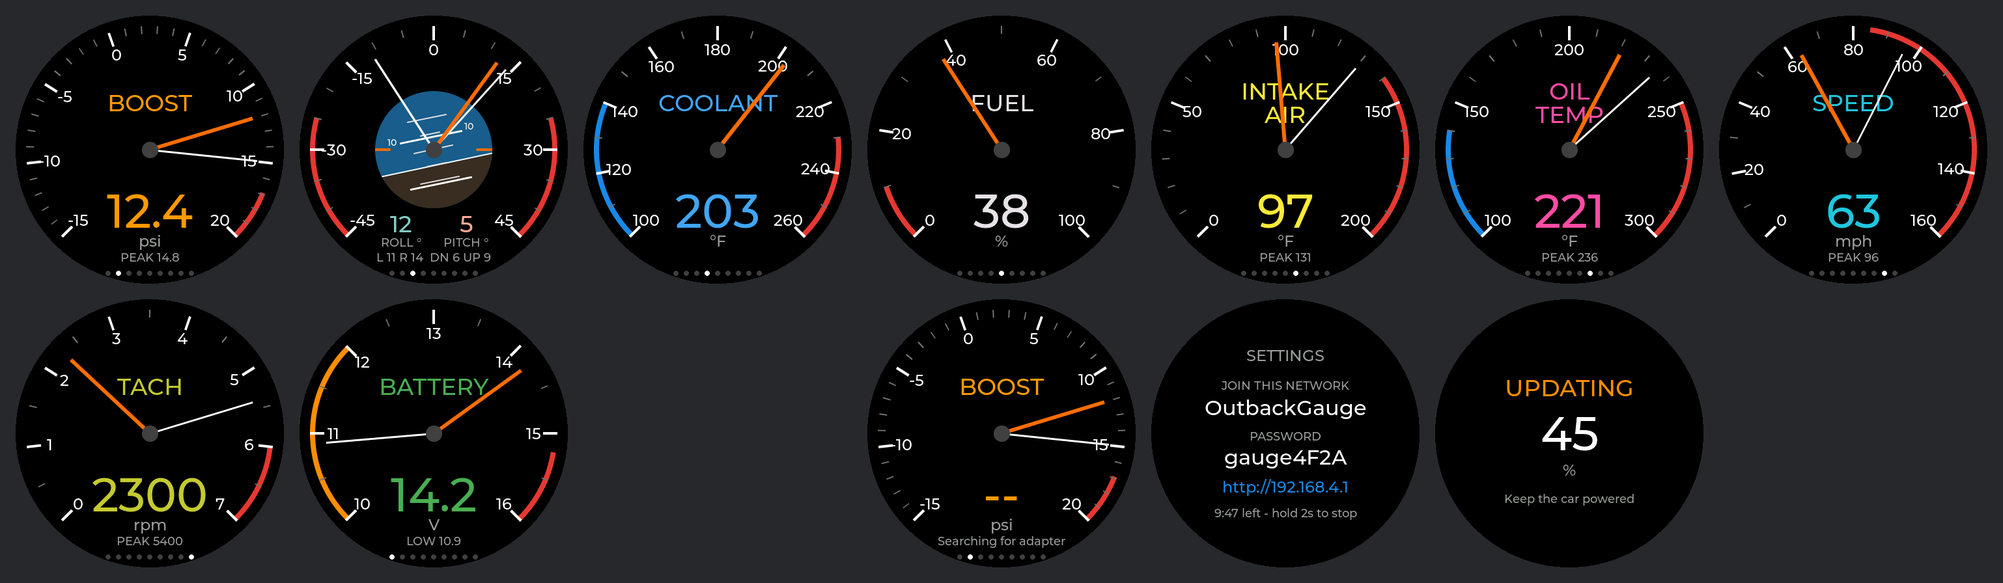
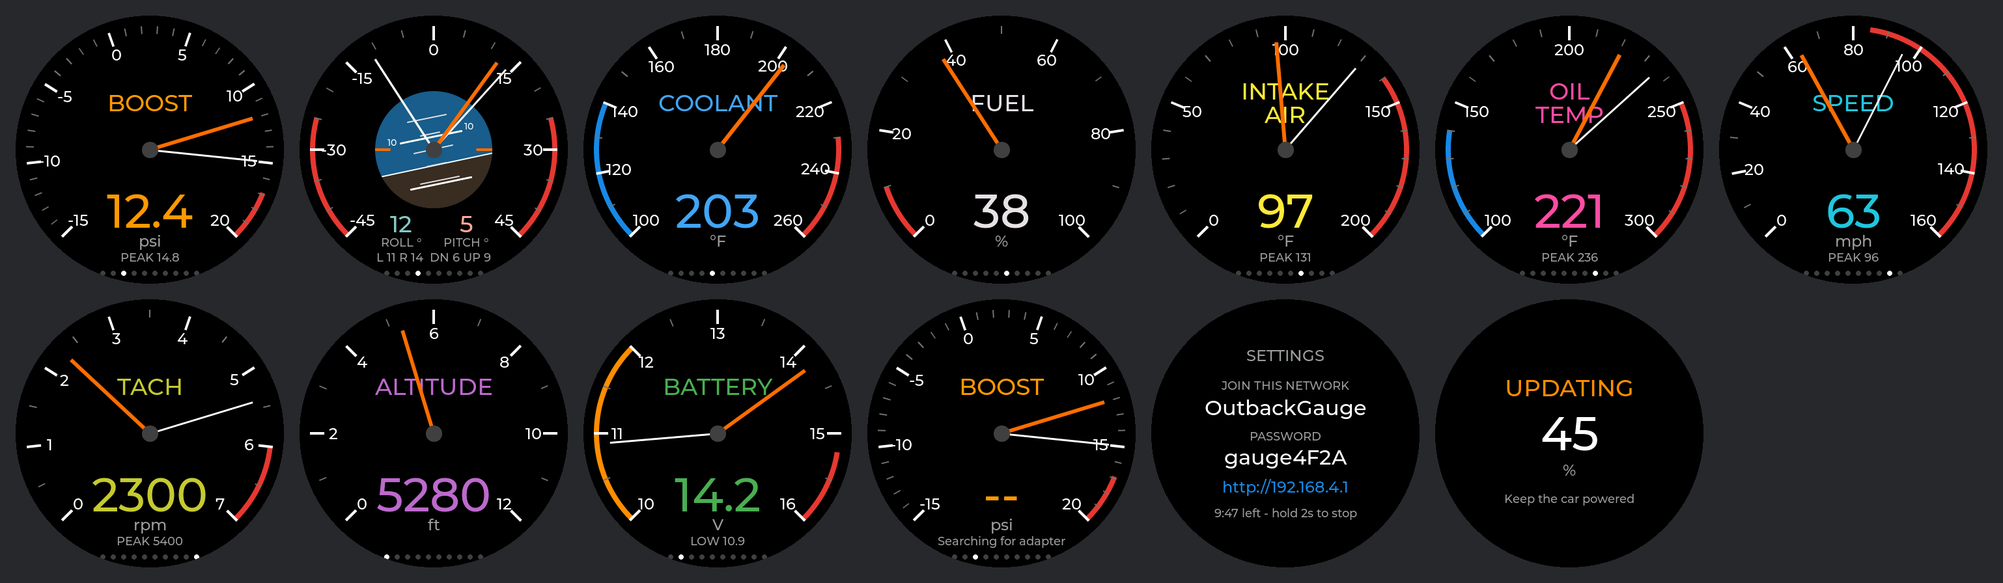
Add an altitude gauge from the barometric pressure

diff --git a/docs/settings-page.html b/docs/settings-page.html
@@ -1,1 +1,1 @@
-<!doctype html><html><head><meta charset=utf-8><meta name=viewport content='width=device-width,initial-scale=1'><title>Outback Gauge</title><style>*{box-sizing:border-box}body{margin:0;padding:18px;background:#111;color:#eee;font:16px/1.4 -apple-system,system-ui,Roboto,sans-serif}main{max-width:30rem;margin:0 auto}h1{font-size:1.25rem;margin:0}p.sub{margin:.2rem 0 1.4rem;color:#888;font-size:.85rem}h2{font-size:.72rem;text-transform:uppercase;letter-spacing:.09em;color:#888;margin:1.6rem 0 .3rem;border-bottom:1px solid #2a2a2a;padding-bottom:.4rem}label{display:flex;align-items:center;gap:.75rem;padding:.5rem 0}label span{flex:1}label em{color:#777;font-style:normal;font-size:.8rem;min-width:2.4rem}input[type=number]{width:5.5rem;padding:.5rem;background:#1c1c1c;border:1px solid #333;border-radius:6px;color:#fff;font-size:1rem;text-align:right}select{padding:.5rem;background:#1c1c1c;border:1px solid #333;border-radius:6px;color:#fff;font-size:1rem}input[type=file]{width:100%;margin-top:.8rem;color:#ccc}input[type=range]{flex:1;accent-color:#FF6D00}table{width:100%;border-collapse:collapse;margin-top:.3rem}th{font-size:.7rem;font-weight:400;text-transform:uppercase;letter-spacing:.06em;color:#888;text-align:center;padding:.3rem .25rem}th:first-child,td:first-child{text-align:left}td{padding:.45rem .25rem;border-top:1px solid #222;text-align:center;vertical-align:middle}td input[type=number]{width:4.6rem;padding:.4rem}td input[type=radio]{width:1.35rem;height:1.35rem;accent-color:#FF6D00}.lim{display:flex;align-items:center;justify-content:center;gap:.3rem;margin:.15rem 0}.lim em{min-width:1.6rem;text-align:left;white-space:nowrap}td input[type=number]{width:4.2rem}.none{color:#555}td.mv{user-select:none;-webkit-user-select:none}.ar{color:#777;font-size:1.1rem;display:inline-block;padding:.7rem .5rem .7rem .3rem;margin:-.7rem .1rem -.7rem -.3rem;touch-action:none;cursor:grab;vertical-align:middle}tr.drag td{background:#2a2a2a}body{padding:12px 28px 12px 12px}th,td{padding-left:.12rem;padding-right:.12rem}th{font-size:.62rem;letter-spacing:.03em}td input[type=number]{width:4rem;padding:.35rem .3rem;-moz-appearance:textfield;appearance:textfield}td input[type=number]::-webkit-inner-spin-button,td input[type=number]::-webkit-outer-spin-button{-webkit-appearance:none;margin:0}td input[type=radio],td input[type=checkbox]{width:1.2rem;height:1.2rem}.nm{display:inline-block;vertical-align:middle;max-width:calc(100% - 1.7rem);font-size:.9rem}.lim{gap:.2rem}.lim em{min-width:1.6rem;font-size:.78rem}td input:disabled{opacity:.25}button.ghost.arm{background:#7a2c2c;color:#fff;border-color:#a33}#toast{position:fixed;left:50%;bottom:1.2rem;transform:translateX(-50%);padding:.7rem 1.3rem;border-radius:8px;background:#14301b;border:1px solid #2c5c38;color:#a9e0bb;display:none;z-index:9;box-shadow:0 4px 18px #000a}#toast.bad{background:#3a1616;border-color:#7a2c2c;color:#f2b2b2}input[type=checkbox]{width:1.35rem;height:1.35rem;accent-color:#FF6D00}button{width:100%;padding:.85rem;margin-top:1.2rem;border:0;border-radius:8px;background:#FF6D00;color:#111;font-size:1rem;font-weight:600}button.ghost{background:#1c1c1c;color:#ccc;border:1px solid #333;font-weight:400;margin-top:.5rem}.note{background:#14301b;border:1px solid #2c5c38;color:#a9e0bb;padding:.6rem .8rem;border-radius:6px;margin-bottom:1.2rem;font-size:.9rem}.warn{color:#FB8C00;font-size:.78rem;margin:.5rem 0 0}</style></head><body><main><h1>Outback Gauge</h1><p class=sub>Settings are saved on the gauge and survive a reboot.</p><div class=note>Saved.</div><form method=POST action=/save data-toast="Saved"><h2>Gauges</h2><table><tr><th>Gauge (drag the grip to reorder)<th>Warns at<th>Alert<th>Show<th>Start on</tr><tr><td colspan=4>The last one I tapped to<td><input type=radio name=start value=255 checked></tr><tr data-g><td class=mv><input type=hidden name=o value=4><span class=ar>&#10303;</span><span class=nm>Battery</span><td><span class=lim><input type=number name=vlo min=10 max=14 step=0.1 value=12.0><em>V lo</em></span><span class=lim><input type=number name=vhi min=13 max=16 step=0.1 value=15.2><em>V hi</em></span><td><input type=checkbox name=al4 checked><td><input type=checkbox name=pg4 checked><td><input type=radio name=start value=4></tr><tr data-g><td class=mv><input type=hidden name=o value=0><span class=ar>&#10303;</span><span class=nm>Boost</span><td><span class=lim><input type=number name=boost min=0 max=20 step=0.5 value=17.0><em>psi</em></span><td><input type=checkbox name=al0 checked><td><input type=checkbox name=pg0 checked><td><input type=radio name=start value=0></tr><tr data-g><td class=mv><input type=hidden name=o value=8><span class=ar>&#10303;</span><span class=nm>Clinometer</span><td><span class=lim><input type=number name=roll min=5 max=45 step=1 value=25><em>&deg; roll</em></span><span class=lim><input type=number name=pitch min=5 max=45 step=1 value=25><em>&deg; pitch</em></span><td><input type=checkbox name=al8 checked><td><input type=checkbox name=pg8 checked><td><input type=radio name=start value=8></tr><tr data-g><td class=mv><input type=hidden name=o value=1><span class=ar>&#10303;</span><span class=nm>Coolant</span><td><span class=lim><input type=number name=cool min=150 max=260 step=1 value=230><em>&deg;F</em></span><td><input type=checkbox name=al1 checked><td><input type=checkbox name=pg1 checked><td><input type=radio name=start value=1></tr><tr data-g><td class=mv><input type=hidden name=o value=7><span class=ar>&#10303;</span><span class=nm>Fuel</span><td><span class=lim><input type=number name=fuel min=5 max=50 step=1 value=10><em>% low</em></span><td><input type=checkbox name=al7 checked><td><input type=checkbox name=pg7 checked><td><input type=radio name=start value=7></tr><tr data-g><td class=mv><input type=hidden name=o value=3><span class=ar>&#10303;</span><span class=nm>Intake air</span><td><span class=lim><input type=number name=intake min=60 max=200 step=1 value=140><em>&deg;F</em></span><td><input type=checkbox name=al3 checked><td><input type=checkbox name=pg3 checked><td><input type=radio name=start value=3></tr><tr data-g><td class=mv><input type=hidden name=o value=2><span class=ar>&#10303;</span><span class=nm>Oil temperature</span><td><span class=lim><input type=number name=oil min=180 max=300 step=1 value=250><em>&deg;F</em></span><td><input type=checkbox name=al2 checked><td><input type=checkbox name=pg2 checked><td><input type=radio name=start value=2></tr><tr data-g><td class=mv><input type=hidden name=o value=5><span class=ar>&#10303;</span><span class=nm>Speed</span><td><span class=lim><input type=number name=speed min=20 max=160 step=1 value=85><em>mph</em></span><td><input type=checkbox name=al5 checked><td><input type=checkbox name=pg5 checked><td><input type=radio name=start value=5></tr><tr data-g><td class=mv><input type=hidden name=o value=6><span class=ar>&#10303;</span><span class=nm>Tachometer</span><td><span class=lim><input type=number name=rpm min=3000 max=7000 step=100 value=6000><em>rpm</em></span><td><input type=checkbox name=al6 checked><td><input type=checkbox name=pg6 checked><td><input type=radio name=start value=6></tr></table><p class=warn>The start gauge falls back to the first one shown if you hide it. With Alert off a gauge still turns red, but never pulls the screen over.</p><label class=chk><input type=checkbox name=warnhidden><span>Show a hidden gauge when it warns</span></label><label class=chk><input type=checkbox name=stay checked><span>Stay on a gauge that has warned (otherwise keep rotating)</span></label><h2>Rotation</h2><label class=chk><input type=checkbox name=auto checked><span>Cycle through the gauges</span></label><label><span>Seconds per gauge</span><input type=number name=secs min=1 max=60 step=0.5 value=3.0><em>s</em></label><p class=warn>Tap the screen to move on early. Hold for 2 seconds to open this page.</p><h2>Display</h2><label><span>Backlight</span><input type=range name=bl min=5 max=100 step=5 value=80 oninput="this.nextElementSibling.textContent=this.value+'%'"><em>80%</em></label><label class=chk><input type=checkbox name=light><span>White background, black numbers and needles (hold the screen to flip it)</span></label><button>Save</button></form><form method=POST action=/level data-toast="Level set" data-ask="Tap again to set level" data-confirm="Is the car parked on level ground? That becomes zero for the clinometer."><button class=ghost>Set clinometer level</button></form><form method=POST action=/defaults data-toast="Defaults restored" data-ask="Tap again to restore defaults" data-confirm="Put every setting back to its default?"><button class=ghost>Restore defaults</button></form><form method=POST action=/reboot data-ask="Tap again to reboot" data-confirm="Reboot the gauge? The Wi-Fi drops, so hold the screen for 2 seconds to bring it back."><button class=ghost>Reboot the gauge</button></form><form method=POST action=/stop data-ask="Tap again to turn Wi-Fi off" data-confirm="Turn Wi-Fi off? Hold the screen to bring it back."><button class=ghost>Turn Wi-Fi off</button></form><h2>Firmware</h2><form method=POST action=/update enctype=multipart/form-data data-upload=1 data-ask="Tap again to install" data-confirm="Install this firmware? The gauge restarts when it finishes, which takes about a minute. Keep the car powered."><input type=file name=fw accept=".bin" required><button class=ghost>Update firmware</button></form><progress id=upbar max=100 value=0 style='display:none;width:100%;margin-top:.6rem'></progress><p class=warn id=upmsg></p><p class=warn>Build: preview. Last start: power on, 7 min ago.</p></main><div id=toast></div><script>function sync(){var rows=document.querySelectorAll('tr[data-g]'),on=0,pick=null;rows.forEach(function(r){var c=r.querySelector('input[name^=pg]'),d=r.querySelector('input[type=radio]');d.disabled=!c.checked;if(c.checked){on++;if(!pick)pick=d}if(d.disabled&&d.checked){d.checked=false;if(pick)pick.checked=true}});var sel=document.querySelector('input[name=start]:checked');if(!sel){(pick||document.querySelector('input[name=start]:not(:disabled)')).checked=true}}function toast(t,bad){var e=document.getElementById('toast');e.textContent=t;e.className=bad?'bad':'';e.style.display='block';clearTimeout(toast.t);toast.t=setTimeout(function(){e.style.display='none'},3000)}document.addEventListener('change',function(e){if(e.target.type=='checkbox'&&e.target.name&&e.target.name.indexOf('pg')==0){if(!document.querySelector('input[name^=pg]:checked'))e.target.checked=true;sync()}});function disarm(f){var b=f.querySelector('button');if(f.armed){f.armed=0;b.textContent=b.getAttribute('data-t');b.className='ghost';if(f.m)f.m.remove()}}document.addEventListener('submit',function(e){var f=e.target,c=f.getAttribute('data-confirm');if(c){var b=f.querySelector('button');if(!f.armed){e.preventDefault();f.armed=1;b.setAttribute('data-t',b.textContent);b.textContent=f.getAttribute('data-ask');b.className='ghost arm';var m=document.createElement('p');m.className='warn';m.textContent=c;f.appendChild(m);f.m=m;clearTimeout(f.t);f.t=setTimeout(function(){disarm(f)},5000);return}clearTimeout(f.t);if(f.m)f.m.remove()}if(f.hasAttribute('data-upload')){e.preventDefault();upload(f);return}var t=f.getAttribute('data-toast');if(!t)return;e.preventDefault();fetch(f.action,{method:'POST',body:new URLSearchParams(new FormData(f))}).then(function(r){return r.text()}).then(function(h){var y=scrollY;document.body.innerHTML=new DOMParser().parseFromString(h,'text/html').body.innerHTML;var n=document.querySelector('.note');if(n)n.remove();sync();scrollTo(0,y);toast(t)}).catch(function(){toast('Could not reach the gauge',1)})});function upload(f){var b=f.querySelector('button'),bar=document.getElementById('upbar'),msg=document.getElementById('upmsg');b.disabled=true;bar.style.display='block';bar.value=0;msg.textContent='Uploading 0%';var x=new XMLHttpRequest();x.open('POST',f.action);x.upload.onprogress=function(ev){if(ev.lengthComputable){var p=Math.round(100*ev.loaded/ev.total);bar.value=p;msg.textContent=p<100?'Uploading '+p+'%':'Installing. The gauge restarts when it finishes.'}};x.onload=function(){document.body.innerHTML=new DOMParser().parseFromString(x.responseText,'text/html').body.innerHTML};x.onerror=function(){msg.textContent='Connection lost. If the gauge screen says it is installing or restarting, the update is fine.';b.disabled=false};x.send(new FormData(f))}function rows(){return Array.prototype.slice.call(document.querySelectorAll('tr[data-g]'))}var dragRow=null;document.addEventListener('pointerdown',function(e){var h=e.target.closest('.ar');if(!h)return;dragRow=h.closest('tr');dragRow.className='drag';h.setPointerCapture(e.pointerId)});document.addEventListener('pointermove',function(e){if(!dragRow)return;var all=rows(),i=all.indexOf(dragRow),p=all[i-1],n=all[i+1];if(p){var a=p.getBoundingClientRect();if(e.clientY<a.top+a.height/2)p.parentNode.insertBefore(dragRow,p)}if(n){var c=n.getBoundingClientRect();if(e.clientY>c.top+c.height/2)n.parentNode.insertBefore(n,dragRow)}});function drop(){if(dragRow){dragRow.className='';dragRow=null}}document.addEventListener('pointerup',drop);document.addEventListener('pointercancel',drop);sync();</script></body></html>
+<!doctype html><html><head><meta charset=utf-8><meta name=viewport content='width=device-width,initial-scale=1'><title>Outback Gauge</title><style>*{box-sizing:border-box}body{margin:0;padding:18px;background:#111;color:#eee;font:16px/1.4 -apple-system,system-ui,Roboto,sans-serif}main{max-width:30rem;margin:0 auto}h1{font-size:1.25rem;margin:0}p.sub{margin:.2rem 0 1.4rem;color:#888;font-size:.85rem}h2{font-size:.72rem;text-transform:uppercase;letter-spacing:.09em;color:#888;margin:1.6rem 0 .3rem;border-bottom:1px solid #2a2a2a;padding-bottom:.4rem}label{display:flex;align-items:center;gap:.75rem;padding:.5rem 0}label span{flex:1}label em{color:#777;font-style:normal;font-size:.8rem;min-width:2.4rem}input[type=number]{width:5.5rem;padding:.5rem;background:#1c1c1c;border:1px solid #333;border-radius:6px;color:#fff;font-size:1rem;text-align:right}select{padding:.5rem;background:#1c1c1c;border:1px solid #333;border-radius:6px;color:#fff;font-size:1rem}input[type=file]{width:100%;margin-top:.8rem;color:#ccc}input[type=range]{flex:1;accent-color:#FF6D00}table{width:100%;border-collapse:collapse;margin-top:.3rem}th{font-size:.7rem;font-weight:400;text-transform:uppercase;letter-spacing:.06em;color:#888;text-align:center;padding:.3rem .25rem}th:first-child,td:first-child{text-align:left}td{padding:.45rem .25rem;border-top:1px solid #222;text-align:center;vertical-align:middle}td input[type=number]{width:4.6rem;padding:.4rem}td input[type=radio]{width:1.35rem;height:1.35rem;accent-color:#FF6D00}.lim{display:flex;align-items:center;justify-content:center;gap:.3rem;margin:.15rem 0}.lim em{min-width:1.6rem;text-align:left;white-space:nowrap}td input[type=number]{width:4.2rem}.none{color:#555}td.mv{user-select:none;-webkit-user-select:none}.ar{color:#777;font-size:1.1rem;display:inline-block;padding:.7rem .5rem .7rem .3rem;margin:-.7rem .1rem -.7rem -.3rem;touch-action:none;cursor:grab;vertical-align:middle}tr.drag td{background:#2a2a2a}body{padding:12px 28px 12px 12px}th,td{padding-left:.12rem;padding-right:.12rem}th{font-size:.62rem;letter-spacing:.03em}td input[type=number]{width:4rem;padding:.35rem .3rem;-moz-appearance:textfield;appearance:textfield}td input[type=number]::-webkit-inner-spin-button,td input[type=number]::-webkit-outer-spin-button{-webkit-appearance:none;margin:0}td input[type=radio],td input[type=checkbox]{width:1.2rem;height:1.2rem}.nm{display:inline-block;vertical-align:middle;max-width:calc(100% - 1.7rem);font-size:.9rem}.lim{gap:.2rem}.lim em{min-width:1.6rem;font-size:.78rem}td input:disabled{opacity:.25}button.ghost.arm{background:#7a2c2c;color:#fff;border-color:#a33}#toast{position:fixed;left:50%;bottom:1.2rem;transform:translateX(-50%);padding:.7rem 1.3rem;border-radius:8px;background:#14301b;border:1px solid #2c5c38;color:#a9e0bb;display:none;z-index:9;box-shadow:0 4px 18px #000a}#toast.bad{background:#3a1616;border-color:#7a2c2c;color:#f2b2b2}input[type=checkbox]{width:1.35rem;height:1.35rem;accent-color:#FF6D00}button{width:100%;padding:.85rem;margin-top:1.2rem;border:0;border-radius:8px;background:#FF6D00;color:#111;font-size:1rem;font-weight:600}button.ghost{background:#1c1c1c;color:#ccc;border:1px solid #333;font-weight:400;margin-top:.5rem}.note{background:#14301b;border:1px solid #2c5c38;color:#a9e0bb;padding:.6rem .8rem;border-radius:6px;margin-bottom:1.2rem;font-size:.9rem}.warn{color:#FB8C00;font-size:.78rem;margin:.5rem 0 0}</style></head><body><main><h1>Outback Gauge</h1><p class=sub>Settings are saved on the gauge and survive a reboot.</p><div class=note>Saved.</div><form method=POST action=/save data-toast="Saved"><h2>Gauges</h2><table><tr><th>Gauge (drag the grip to reorder)<th>Warns at<th>Alert<th>Show<th>Start on</tr><tr><td colspan=4>The last one I tapped to<td><input type=radio name=start value=255 checked></tr><tr data-g><td class=mv><input type=hidden name=o value=9><span class=ar>&#10303;</span><span class=nm>Altitude</span><td><span class=none>none</span><td><td><input type=checkbox name=pg9 checked><td><input type=radio name=start value=9></tr><tr data-g><td class=mv><input type=hidden name=o value=4><span class=ar>&#10303;</span><span class=nm>Battery</span><td><span class=lim><input type=number name=vlo min=10 max=14 step=0.1 value=12.0><em>V lo</em></span><span class=lim><input type=number name=vhi min=13 max=16 step=0.1 value=15.2><em>V hi</em></span><td><input type=checkbox name=al4 checked><td><input type=checkbox name=pg4 checked><td><input type=radio name=start value=4></tr><tr data-g><td class=mv><input type=hidden name=o value=0><span class=ar>&#10303;</span><span class=nm>Boost</span><td><span class=lim><input type=number name=boost min=0 max=20 step=0.5 value=17.0><em>psi</em></span><td><input type=checkbox name=al0 checked><td><input type=checkbox name=pg0 checked><td><input type=radio name=start value=0></tr><tr data-g><td class=mv><input type=hidden name=o value=8><span class=ar>&#10303;</span><span class=nm>Clinometer</span><td><span class=lim><input type=number name=roll min=5 max=45 step=1 value=25><em>&deg; roll</em></span><span class=lim><input type=number name=pitch min=5 max=45 step=1 value=25><em>&deg; pitch</em></span><td><input type=checkbox name=al8 checked><td><input type=checkbox name=pg8 checked><td><input type=radio name=start value=8></tr><tr data-g><td class=mv><input type=hidden name=o value=1><span class=ar>&#10303;</span><span class=nm>Coolant</span><td><span class=lim><input type=number name=cool min=150 max=260 step=1 value=230><em>&deg;F</em></span><td><input type=checkbox name=al1 checked><td><input type=checkbox name=pg1 checked><td><input type=radio name=start value=1></tr><tr data-g><td class=mv><input type=hidden name=o value=7><span class=ar>&#10303;</span><span class=nm>Fuel</span><td><span class=lim><input type=number name=fuel min=5 max=50 step=1 value=10><em>% low</em></span><td><input type=checkbox name=al7 checked><td><input type=checkbox name=pg7 checked><td><input type=radio name=start value=7></tr><tr data-g><td class=mv><input type=hidden name=o value=3><span class=ar>&#10303;</span><span class=nm>Intake air</span><td><span class=lim><input type=number name=intake min=60 max=200 step=1 value=140><em>&deg;F</em></span><td><input type=checkbox name=al3 checked><td><input type=checkbox name=pg3 checked><td><input type=radio name=start value=3></tr><tr data-g><td class=mv><input type=hidden name=o value=2><span class=ar>&#10303;</span><span class=nm>Oil temperature</span><td><span class=lim><input type=number name=oil min=180 max=300 step=1 value=250><em>&deg;F</em></span><td><input type=checkbox name=al2 checked><td><input type=checkbox name=pg2 checked><td><input type=radio name=start value=2></tr><tr data-g><td class=mv><input type=hidden name=o value=5><span class=ar>&#10303;</span><span class=nm>Speed</span><td><span class=lim><input type=number name=speed min=20 max=160 step=1 value=85><em>mph</em></span><td><input type=checkbox name=al5 checked><td><input type=checkbox name=pg5 checked><td><input type=radio name=start value=5></tr><tr data-g><td class=mv><input type=hidden name=o value=6><span class=ar>&#10303;</span><span class=nm>Tachometer</span><td><span class=lim><input type=number name=rpm min=3000 max=7000 step=100 value=6000><em>rpm</em></span><td><input type=checkbox name=al6 checked><td><input type=checkbox name=pg6 checked><td><input type=radio name=start value=6></tr></table><p class=warn>The start gauge falls back to the first one shown if you hide it. With Alert off a gauge still turns red, but never pulls the screen over.</p><label class=chk><input type=checkbox name=warnhidden><span>Show a hidden gauge when it warns</span></label><label class=chk><input type=checkbox name=stay checked><span>Stay on a gauge that has warned (otherwise keep rotating)</span></label><h2>Rotation</h2><label class=chk><input type=checkbox name=auto checked><span>Cycle through the gauges</span></label><label><span>Seconds per gauge</span><input type=number name=secs min=1 max=60 step=0.5 value=3.0><em>s</em></label><p class=warn>Tap the screen to move on early. Hold for 2 seconds to open this page.</p><h2>Display</h2><label><span>Backlight</span><input type=range name=bl min=5 max=100 step=5 value=80 oninput="this.nextElementSibling.textContent=this.value+'%'"><em>80%</em></label><label class=chk><input type=checkbox name=light><span>White background, black numbers and needles (hold the screen to flip it)</span></label><button>Save</button></form><form method=POST action=/level data-toast="Level set" data-ask="Tap again to set level" data-confirm="Is the car parked on level ground? That becomes zero for the clinometer."><button class=ghost>Set clinometer level</button></form><form method=POST action=/defaults data-toast="Defaults restored" data-ask="Tap again to restore defaults" data-confirm="Put every setting back to its default?"><button class=ghost>Restore defaults</button></form><form method=POST action=/reboot data-ask="Tap again to reboot" data-confirm="Reboot the gauge? The Wi-Fi drops, so hold the screen for 2 seconds to bring it back."><button class=ghost>Reboot the gauge</button></form><form method=POST action=/stop data-ask="Tap again to turn Wi-Fi off" data-confirm="Turn Wi-Fi off? Hold the screen to bring it back."><button class=ghost>Turn Wi-Fi off</button></form><h2>Firmware</h2><form method=POST action=/update enctype=multipart/form-data data-upload=1 data-ask="Tap again to install" data-confirm="Install this firmware? The gauge restarts when it finishes, which takes about a minute. Keep the car powered."><input type=file name=fw accept=".bin" required><button class=ghost>Update firmware</button></form><progress id=upbar max=100 value=0 style='display:none;width:100%;margin-top:.6rem'></progress><p class=warn id=upmsg></p><p class=warn>Build: preview. Last start: power on, 7 min ago.</p></main><div id=toast></div><script>function sync(){var rows=document.querySelectorAll('tr[data-g]'),on=0,pick=null;rows.forEach(function(r){var c=r.querySelector('input[name^=pg]'),d=r.querySelector('input[type=radio]');d.disabled=!c.checked;if(c.checked){on++;if(!pick)pick=d}if(d.disabled&&d.checked){d.checked=false;if(pick)pick.checked=true}});var sel=document.querySelector('input[name=start]:checked');if(!sel){(pick||document.querySelector('input[name=start]:not(:disabled)')).checked=true}}function toast(t,bad){var e=document.getElementById('toast');e.textContent=t;e.className=bad?'bad':'';e.style.display='block';clearTimeout(toast.t);toast.t=setTimeout(function(){e.style.display='none'},3000)}document.addEventListener('change',function(e){if(e.target.type=='checkbox'&&e.target.name&&e.target.name.indexOf('pg')==0){if(!document.querySelector('input[name^=pg]:checked'))e.target.checked=true;sync()}});function disarm(f){var b=f.querySelector('button');if(f.armed){f.armed=0;b.textContent=b.getAttribute('data-t');b.className='ghost';if(f.m)f.m.remove()}}document.addEventListener('submit',function(e){var f=e.target,c=f.getAttribute('data-confirm');if(c){var b=f.querySelector('button');if(!f.armed){e.preventDefault();f.armed=1;b.setAttribute('data-t',b.textContent);b.textContent=f.getAttribute('data-ask');b.className='ghost arm';var m=document.createElement('p');m.className='warn';m.textContent=c;f.appendChild(m);f.m=m;clearTimeout(f.t);f.t=setTimeout(function(){disarm(f)},5000);return}clearTimeout(f.t);if(f.m)f.m.remove()}if(f.hasAttribute('data-upload')){e.preventDefault();upload(f);return}var t=f.getAttribute('data-toast');if(!t)return;e.preventDefault();fetch(f.action,{method:'POST',body:new URLSearchParams(new FormData(f))}).then(function(r){return r.text()}).then(function(h){var y=scrollY;document.body.innerHTML=new DOMParser().parseFromString(h,'text/html').body.innerHTML;var n=document.querySelector('.note');if(n)n.remove();sync();scrollTo(0,y);toast(t)}).catch(function(){toast('Could not reach the gauge',1)})});function upload(f){var b=f.querySelector('button'),bar=document.getElementById('upbar'),msg=document.getElementById('upmsg');b.disabled=true;bar.style.display='block';bar.value=0;msg.textContent='Uploading 0%';var x=new XMLHttpRequest();x.open('POST',f.action);x.upload.onprogress=function(ev){if(ev.lengthComputable){var p=Math.round(100*ev.loaded/ev.total);bar.value=p;msg.textContent=p<100?'Uploading '+p+'%':'Installing. The gauge restarts when it finishes.'}};x.onload=function(){document.body.innerHTML=new DOMParser().parseFromString(x.responseText,'text/html').body.innerHTML};x.onerror=function(){msg.textContent='Connection lost. If the gauge screen says it is installing or restarting, the update is fine.';b.disabled=false};x.send(new FormData(f))}function rows(){return Array.prototype.slice.call(document.querySelectorAll('tr[data-g]'))}var dragRow=null;document.addEventListener('pointerdown',function(e){var h=e.target.closest('.ar');if(!h)return;dragRow=h.closest('tr');dragRow.className='drag';h.setPointerCapture(e.pointerId)});document.addEventListener('pointermove',function(e){if(!dragRow)return;var all=rows(),i=all.indexOf(dragRow),p=all[i-1],n=all[i+1];if(p){var a=p.getBoundingClientRect();if(e.clientY<a.top+a.height/2)p.parentNode.insertBefore(dragRow,p)}if(n){var c=n.getBoundingClientRect();if(e.clientY>c.top+c.height/2)n.parentNode.insertBefore(n,dragRow)}});function drop(){if(dragRow){dragRow.className='';dragRow=null}}document.addEventListener('pointerup',drop);document.addEventListener('pointercancel',drop);sync();</script></body></html>

diff --git a/src/settings.cpp b/src/settings.cpp
@@ -10,7 +10,7 @@ namespace {
 // Stored as one blob rather than a key per field: the whole struct round-trips
 // in two NVS calls, and a version mismatch after a firmware change falls back
 // to defaults instead of leaving half the fields stale. Bump on any layout change.
-constexpr uint16_t LAYOUT = 13;
+constexpr uint16_t LAYOUT = 14;
 
 struct Stored {
   uint16_t layout;
@@ -304,10 +304,10 @@ Settings settings_defaults() {
   s.alertMask = ALERT_MASK;
   s.stayOnWarning = STAY_ON_WARNING;
   s.lightTheme = LIGHT_THEME;
-  // Alphabetical by the gauge's name: battery, boost, clinometer, coolant,
+  // Alphabetical by the gauge's name: altitude, battery, boost, clinometer, coolant,
   // fuel, intake air, oil temperature, speed, tach (the numbers are the
   // pages in ui.cpp).
-  static const uint8_t alphabetical[GAUGE_PAGES] = {4, 0, 8, 1, 7, 3, 2, 5, 6};
+  static const uint8_t alphabetical[GAUGE_PAGES] = {9, 4, 0, 8, 1, 7, 3, 2, 5, 6};
   memset(s.order, 0, sizeof s.order);
   memcpy(s.order, alphabetical, sizeof alphabetical);
   return s;
@@ -315,6 +315,13 @@ Settings settings_defaults() {
 
 const Settings &settings() {
   return live;
+}
+
+// Layouts before 14 had no altitude page: it is shown, warns of nothing, and goes last.
+void addAltitude(Settings &s) {
+  s.order[9] = 9;
+  s.pageMask |= 1u << 9;
+  s.alertMask |= 1u << 9;
 }
 
 void settings_load() {
@@ -336,10 +343,20 @@ void settings_load() {
     Serial.println("[CFG] loaded saved settings");
     return;
   }
+  if (n == sizeof(Stored) && layout == 13) {   // same fields as now, before the altitude page
+    Stored st;
+    memcpy(&st, raw, sizeof st);
+    live = st.s;
+    addAltitude(live);
+    sanitize(live);
+    Serial.println("[CFG] carried over layout 13 settings");
+    return;
+  }
   if (n == sizeof(StoredV12) && layout == 12) {
     StoredV12 old;
     memcpy(&old, raw, sizeof old);
     live = fromV12(old.s);
+    addAltitude(live);
     sanitize(live);
     Serial.println("[CFG] carried over layout 12 settings");
     return;
@@ -348,6 +365,7 @@ void settings_load() {
     StoredV11 old;
     memcpy(&old, raw, sizeof old);
     live = fromV12(v12FromV11(old.s));
+    addAltitude(live);
     sanitize(live);
     Serial.println("[CFG] carried over layout 11 settings");
     return;
@@ -356,6 +374,7 @@ void settings_load() {
     StoredV10 old;
     memcpy(&old, raw, sizeof old);
     live = fromV12(v12FromV11(v11FromV10(old.s)));
+    addAltitude(live);
     sanitize(live);
     Serial.println("[CFG] carried over layout 10 settings");
     return;
@@ -364,6 +383,7 @@ void settings_load() {
     StoredV9 old;
     memcpy(&old, raw, sizeof old);
     live = fromV12(v12FromV11(v11FromV10(v10FromV9(old.s))));
+    addAltitude(live);
     sanitize(live);
     Serial.println("[CFG] carried over layout 9 settings");
     return;
@@ -372,6 +392,7 @@ void settings_load() {
     StoredV8 old;
     memcpy(&old, raw, sizeof old);
     live = fromV12(v12FromV11(v11FromV10(v10FromV9(v9FromV8(old.s)))));
+    addAltitude(live);
     sanitize(live);
     Serial.println("[CFG] carried over layout 8 settings");
     return;
@@ -384,6 +405,7 @@ void settings_load() {
       ((layout == 5 || layout == 4) && n == noLimitsBytes)) {
     memcpy(&old, raw, n);
     live = fromV12(v12FromV11(v11FromV10(v10FromV9(v9FromV8(v8FromV7(old.s, layout))))));
+    addAltitude(live);
     sanitize(live);
     Serial.printf("[CFG] carried over layout %u settings\n", layout);
   } else if (n) {

diff --git a/src/ui.cpp b/src/ui.cpp
@@ -66,6 +66,7 @@ const GaugeCfg FUEL = {"FUEL", "%", "%.0f", 0, 100, 1, 11, 2, {{0, 0, RED, &Sett
 // The clinometer: roll is an ordinary dial (left of centre is a lean to the left, with a red band past
 // each warning limit) with the artificial horizon for pitch in a window in the middle (see makeTilt).
 const GaugeCfg TILT = {"", "", "%.0f", -45, 45, 1, 19, 3, {{-45, 0, RED, &Settings::rollWarnDeg, false, -1}, {0, 45, RED, &Settings::rollWarnDeg}}, Focus::None, TEXT_MINT, 2};
+const GaugeCfg ALTITUDE = {"ALTITUDE", "ft", "%.0f", 0, 12000, 1, 13, 2, {{}, {}}, Focus::None, TEXT_PURPLE, 0};
 const GaugeCfg VOLTS = {"BATTERY", "V", "%.1f", 10, 16, 10, 13, 2, {{10, 0, AMBER, &Settings::voltsLowWarn, false}, {0, 16, RED, &Settings::voltsHighWarn}}, Focus::Volts, TEXT_GREEN, -1};
 
 struct Gauge {
@@ -93,7 +94,7 @@ struct SettingsPage {
   lv_obj_t *screen, *caption, *headline, *caption2, *detail, *url, *foot;
 };
 
-enum : uint8_t { PAGE_BOOST, PAGE_COOLANT, PAGE_OIL, PAGE_INTAKE, PAGE_VOLTS, PAGE_SPEED, PAGE_TACH, PAGE_FUEL, PAGE_TILT, PAGE_COUNT, PAGE_SETTINGS = PAGE_COUNT };
+enum : uint8_t { PAGE_BOOST, PAGE_COOLANT, PAGE_OIL, PAGE_INTAKE, PAGE_VOLTS, PAGE_SPEED, PAGE_TACH, PAGE_FUEL, PAGE_TILT, PAGE_ALTITUDE, PAGE_COUNT, PAGE_SETTINGS = PAGE_COUNT };
 
 Gauge gauges[PAGE_COUNT];
 Face face;
@@ -530,6 +531,7 @@ static void buildScreens() {
   gauges[PAGE_TACH] = makeGauge(TACH);
   gauges[PAGE_FUEL] = makeGauge(FUEL);
   gauges[PAGE_TILT] = makeTilt(TILT);
+  gauges[PAGE_ALTITUDE] = makeGauge(ALTITUDE);
   makeSettings();
   makeUpdateOverlay();
   for (uint8_t i = 0; i < PAGE_COUNT; i++) addPageDots(gauges[i].screen, gauges[i].dots, PAGE_COUNT);
@@ -686,6 +688,10 @@ static bool reading(uint8_t p, const Telemetry &t, float &v) {
     case PAGE_SPEED: v = t.speedMph, at = t.speedAt; break;
     case PAGE_TACH: v = t.rpm, at = t.rpmAt; break;
     case PAGE_FUEL: v = t.fuelPct, at = t.fuelAt; break;
+    case PAGE_ALTITUDE:   // the car updates its barometer slowly, so a reading is held rather than going stale
+      v = t.altitudeFt;
+      at = t.altitudeAt && (t.state == ObdState::Live || t.state == ObdState::Simulated) ? millis() : 0;
+      break;
     case PAGE_TILT: {   // the dial reads roll; pitch is read where the window is drawn
       const Tilt lean = imu_tilt();
       v = lean.roll;

diff --git a/src/config.h b/src/config.h
@@ -24,10 +24,10 @@ static const char *const OBD_NAME_HINTS[] = {"obdlink", "obd", "vlink", "vgate",
 #define DISPLAY_MOUNT_DEG 90
 
 // Which gauge the screen comes up on at power-up (0 boost, 1 coolant,
-// 2 oil temperature, 3 intake air, 4 battery, 5 speed, 6 rpm, 7 fuel, 8 clinometer; 255 = the last one you tapped to),
-// and which gauges are shown at all (one bit each, in that order; 0x1FF is all nine).
+// 2 oil temperature, 3 intake air, 4 battery, 5 speed, 6 rpm, 7 fuel, 8 clinometer, 9 altitude; 255 = the last one you tapped to),
+// and which gauges are shown at all (one bit each, in that order; 0x3FF is all ten).
 #define START_PAGE 255
-#define PAGE_MASK 0x1FF
+#define PAGE_MASK 0x3FF
 
 // Clinometer. The pod is turned this many degrees toward the driver (left-hand
 // drive), and the chip's z axis points out of the screen (-1 if it points in).
@@ -57,7 +57,7 @@ static const char *const OBD_NAME_HINTS[] = {"obdlink", "obd", "vlink", "vgate",
 
 // Which gauges' warnings pull the screen over (one bit each, in the page order above),
 // and whether auto-rotate waits on a gauge that has warned or carries on.
-#define ALERT_MASK 0x1FF
+#define ALERT_MASK 0x3FF
 #define STAY_ON_WARNING 1
 
 // White background with black numbers and needles instead of black with colour.

diff --git a/src/webpage.cpp b/src/webpage.cpp
@@ -44,7 +44,7 @@ void check(String &o, const char *id, const char *label, bool on) {
 }
 
 // In the order of the pages in ui.cpp.
-const char *const PAGE_NAMES[GAUGE_PAGES] = {"Boost", "Coolant", "Oil temperature", "Intake air", "Battery", "Speed", "Tachometer", "Fuel", "Clinometer"};
+const char *const PAGE_NAMES[GAUGE_PAGES] = {"Boost", "Coolant", "Oil temperature", "Intake air", "Battery", "Speed", "Tachometer", "Fuel", "Clinometer", "Altitude"};
 
 String render(const Settings &s, const char *note) {
   String o;
@@ -140,9 +140,11 @@ String render(const Settings &s, const char *note) {
       default: o += "<span class=none>none</span>";
     }
     o += "<td>";
-    o += "<input type=checkbox name=al";
-    o += String(i);
-    o += s.alertMask & (1u << i) ? " checked>" : ">";
+    if (i != 9) {   // altitude has no warning to switch off
+      o += "<input type=checkbox name=al";
+      o += String(i);
+      o += s.alertMask & (1u << i) ? " checked>" : ">";
+    }
     o += "<td><input type=checkbox name=pg";
     o += String(i);
     o += s.pageMask & (1u << i) ? " checked>" : ">";

diff --git a/src/obd.cpp b/src/obd.cpp
@@ -56,7 +56,8 @@ void simulate() {
       s.rpm = 800.0f + throttle * 4500.0f;
       s.speedMph = throttle * 85.0f;
       s.fuelPct = max(8.0f, 62.0f - t * 0.05f);
-      s.boostAt = s.coolantAt = s.oilAt = s.intakeAt = s.voltsAt = s.rpmAt = s.speedAt = s.fuelAt = now;
+      s.altitudeFt = 5280.0f + 40.0f * sinf(t * 0.05f);
+      s.boostAt = s.coolantAt = s.oilAt = s.intakeAt = s.voltsAt = s.rpmAt = s.speedAt = s.fuelAt = s.altitudeAt = now;
     });
     vTaskDelay(pdMS_TO_TICKS(50));
   }
@@ -432,6 +433,9 @@ bool readBaro() {
   uint8_t b;
   if (!readPid(0x33, &b, 1)) return false;
   baroKpa = b;
+  // Standard atmosphere: pressure to height. Weather moves this a few hundred feet either way.
+  const float ft = 145366.45f * (1.0f - powf(baroKpa / 101.325f, 0.190284f));
+  edit([&](Telemetry &t) { t.altitudeFt = ft, t.altitudeAt = millis(); });
   return true;
 }
 

diff --git a/tools/preview/harness.cpp b/tools/preview/harness.cpp
@@ -71,13 +71,14 @@ int main() {
   ui_update(t);
   t.speedMph = 63; t.rpm = 2300;
   t.boostPsi = 12.4f; t.coolantF = 203; t.oilF = 221; t.intakeF = 97; t.volts = 14.2f;
+  t.altitudeFt = 5280; t.altitudeAt = s;
   t.coolantAt = t.oilAt = t.intakeAt = t.voltsAt = s;
 
   fakeTilt.ok = fakeTilt.calibrated = true;
   fakeTilt.roll = 14; fakeTilt.pitch = 9; ui_update(t);          // the maximums
   fakeTilt.roll = -11; fakeTilt.pitch = -6; ui_update(t);
   fakeTilt.roll = 12; fakeTilt.pitch = 5;
-  for (int page = 0; page < 9; page++) {
+  for (int page = 0; page < 10; page++) {
     ui_update(t); capture(page); ui_nextPage();
   }
   // Boost page again while still searching for the adapter.

diff --git a/src/settings.h b/src/settings.h
@@ -9,7 +9,7 @@
 // Reads happen on the UI task, writes on the web server's task, so the web
 // side stages a whole struct and the UI task swaps it in at a safe point
 // (settings_apply) rather than editing fields underneath a running frame.
-constexpr int GAUGE_PAGES = 9;             // keep in step with the page list in ui.cpp and webpage.cpp
+constexpr int GAUGE_PAGES = 10;            // keep in step with the page list in ui.cpp and webpage.cpp
 constexpr int MAX_GAUGES = 16;             // room in the saved order, so adding a gauge doesn't change the layout
 
 struct Settings {

diff --git a/src/obd.h b/src/obd.h
@@ -26,7 +26,8 @@ struct Telemetry {
   float rpm = 0;
   float speedMph = 0;
   float fuelPct = 0;   // tank level, smoothed
-  uint32_t boostAt = 0, coolantAt = 0, oilAt = 0, intakeAt = 0, voltsAt = 0, rpmAt = 0, speedAt = 0, fuelAt = 0;
+  float altitudeFt = 0;   // worked out from the barometric pressure, which the car updates slowly
+  uint32_t boostAt = 0, coolantAt = 0, oilAt = 0, intakeAt = 0, voltsAt = 0, rpmAt = 0, speedAt = 0, fuelAt = 0, altitudeAt = 0;
 };
 
 void obd_start();  // runs the BLE/ELM327 client on its own task (core 0)

diff --git a/src/webconfig.cpp b/src/webconfig.cpp
@@ -65,7 +65,7 @@ void handleSave() {
   s.warnHidden = server.hasArg("warnhidden");
   s.stayOnWarning = server.hasArg("stay");
   s.lightTheme = server.hasArg("light");
-  s.alertMask = 0;
+  s.alertMask = 1u << 9;   // altitude has no warning and no checkbox; its bit stays set
   for (int i = 0; i < GAUGE_PAGES; i++) {
     char name[8];
     snprintf(name, sizeof name, "al%d", i);

diff --git a/README.md b/README.md
@@ -34,6 +34,7 @@ it does is also a touch gesture.
 | Coolant (°F) | PID 0x05 |
 | Oil temperature (°F) | PID 0x5C, which this car reports |
 | Intake air (°F) | PID 0x0F |
+| Altitude (ft) | PID 0x33 barometric pressure, turned into height with the standard atmosphere. The car updates its barometer slowly, so weather shifts it a few hundred feet |
 | Speed (mph) | PID 0x0D, converted from km/h; carries a peak needle |
 | Tachometer (rpm) | PID 0x0C; carries a peak needle |
 | Fuel (%) | PID 0x2F tank level, smoothed; warns below a set level. Not every car reports it, and this one is untested |
